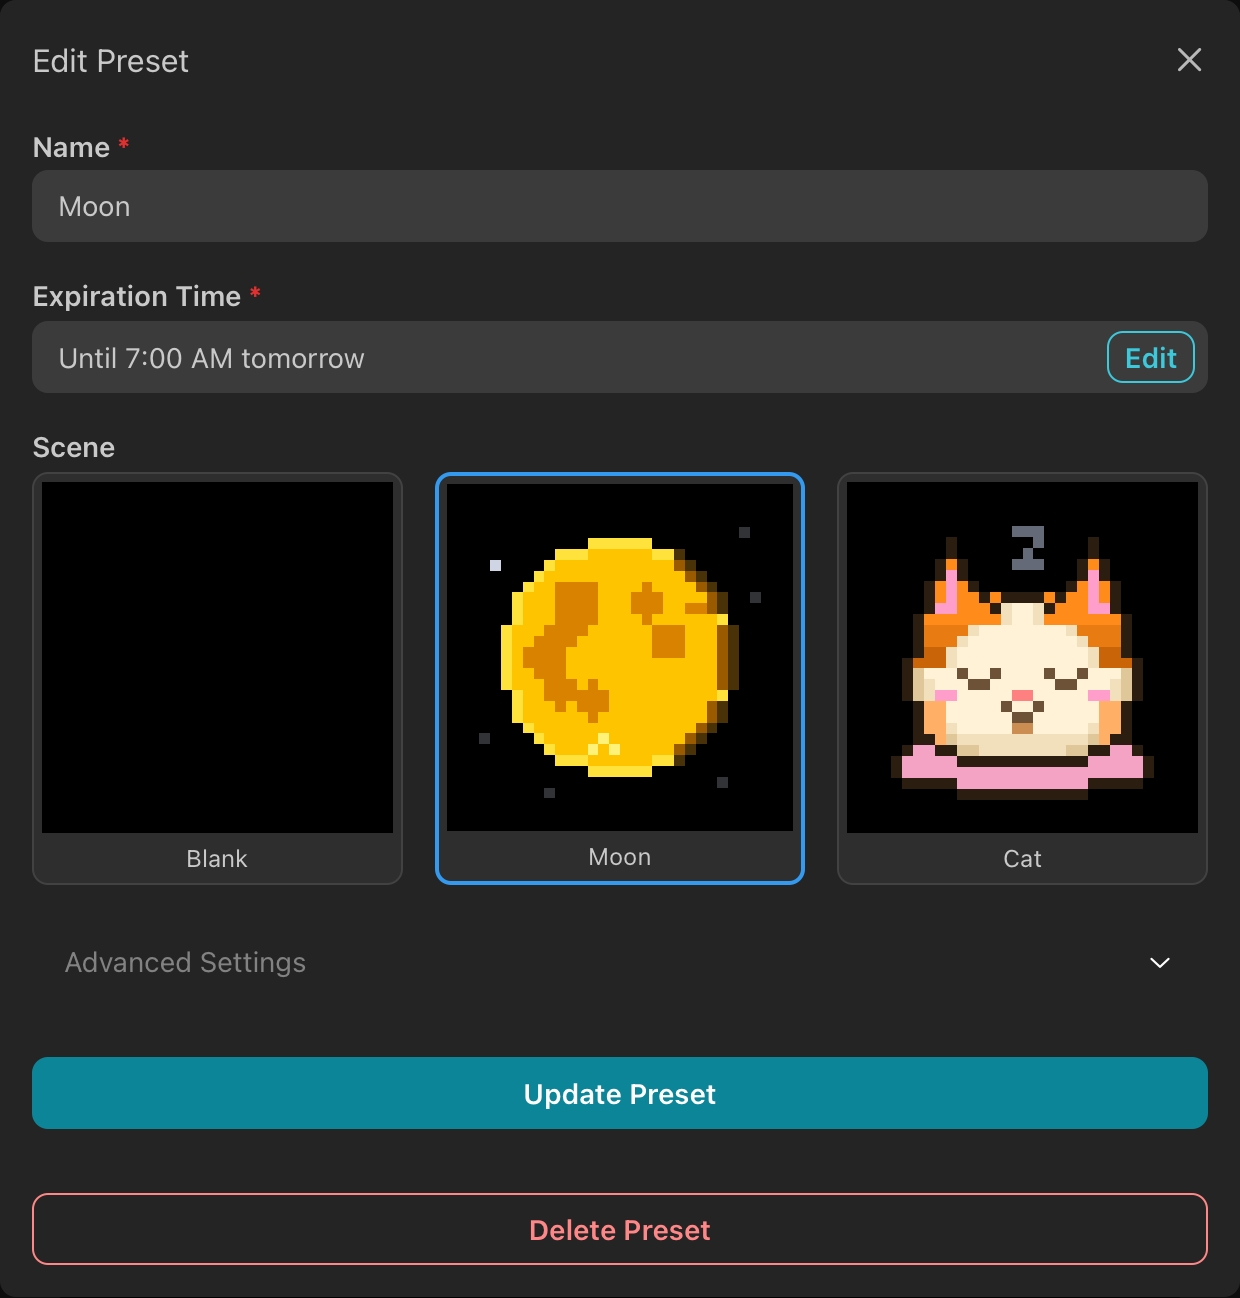
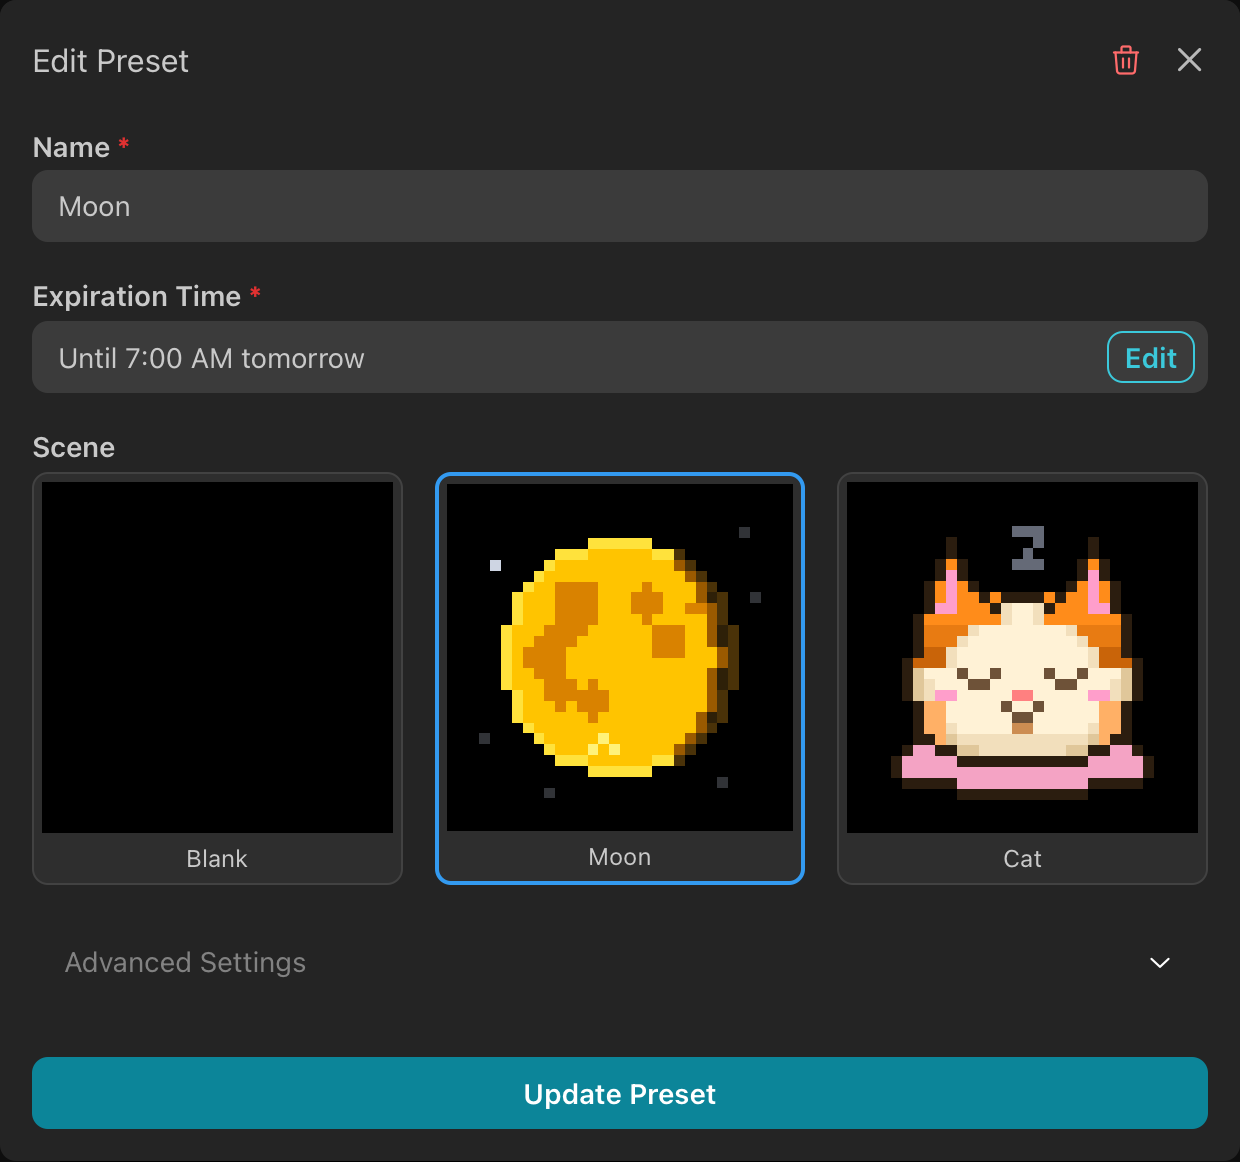
Fix typos in the build section and refresh the preset editor shot
Three typos in the new build steps: "a jumped between", "resisto", and
"Adadfruit HAT (PWN)". The last one matters most — the Settings control
is labelled "Adafruit HAT (PWM)", and a builder searching the dropdown
for "PWN" won't find it.

The preset editor screenshot still showed the full-width "Delete Preset"
button beneath Update Preset. Recaptured against the reworked modal,
where deleting is a trash icon in the header behind a confirm. Same
viewport and preset as the original shot, so it drops straight in.

diff --git a/README.md b/README.md
@@ -64,29 +64,20 @@ You'll need the following supplies:
 1. [Translucent plastic](https://www.amazon.com/dp/B09XR1XBWG?ref=ppx_yo2ov_dt_b_fed_asin_title&th=1) (to soften the LED Panel)
 1. For Presentation: 8.5" x 8.5" frame to house the Panel
 
-## Wiring it up
+## Building your Moonclock
 
-The bonnet ships as a kit, so there's soldering to do before any of this runs.
+- Highly recommend soldering a jumper between `GPIO4` and `GPIO18`.
+  - This will improve image stability!
+  - After soldering be sure to switch the "Hardware Mapping" to **Adafruit HAT (PWM)**
+- Wire up the button
+  - Run the quick-connect wires from the 16mm push button to
+    **physical pin 22** (BCM 25) and the ground at **physical pin 20**.
+  - It's a plain
+    switch, so either leg can take either wire, and it needs no resistor.
+- Place 3 sheets of translucent plastic in the frame
+  - This will soften the LEDs and bring out the colors more.
 
-**The header.** Solder the 2x20 socket header to the bonnet, then seat the bonnet
-over the pi's GPIO pins.
-
-**The PWM jumper.** Bridge the `GPIO4` and `GPIO18` pads on the bonnet with a
-blob of solder, and install with `--hardware-mapping=adafruit-hat-pwm`. This one
-is worth the trouble. Left unjumpered, the panel's Output Enable line sits on
-GPIO 4, which the matrix library can only pulse with a busy-wait timer — and that
-timer's jitter is what you see as ghosting. Moved to GPIO 18 it pulses in
-hardware and the ghosting goes.
-
-**The button.** Run the quick-connect wires from the 16mm push button to
-**physical pin 22** (BCM 25) and the ground at **physical pin 20**. It's a plain
-switch, so either leg can take either wire, and it needs no resistor — the
-installer adds `gpio=25=ip,pu` to the boot config, which idles the pin high on
-the pi's internal pull-up and reads it low when the button closes it to ground.
-The pin is fixed in the firmware rather than configurable, so it does have to be
-that one.
-
-### What the button does
+### What does the button do?
 
 **A tap** moves to the next preset, in the order they're listed in the app. Past
 the last one it clears back to the panel's default scene — so tapping through the
